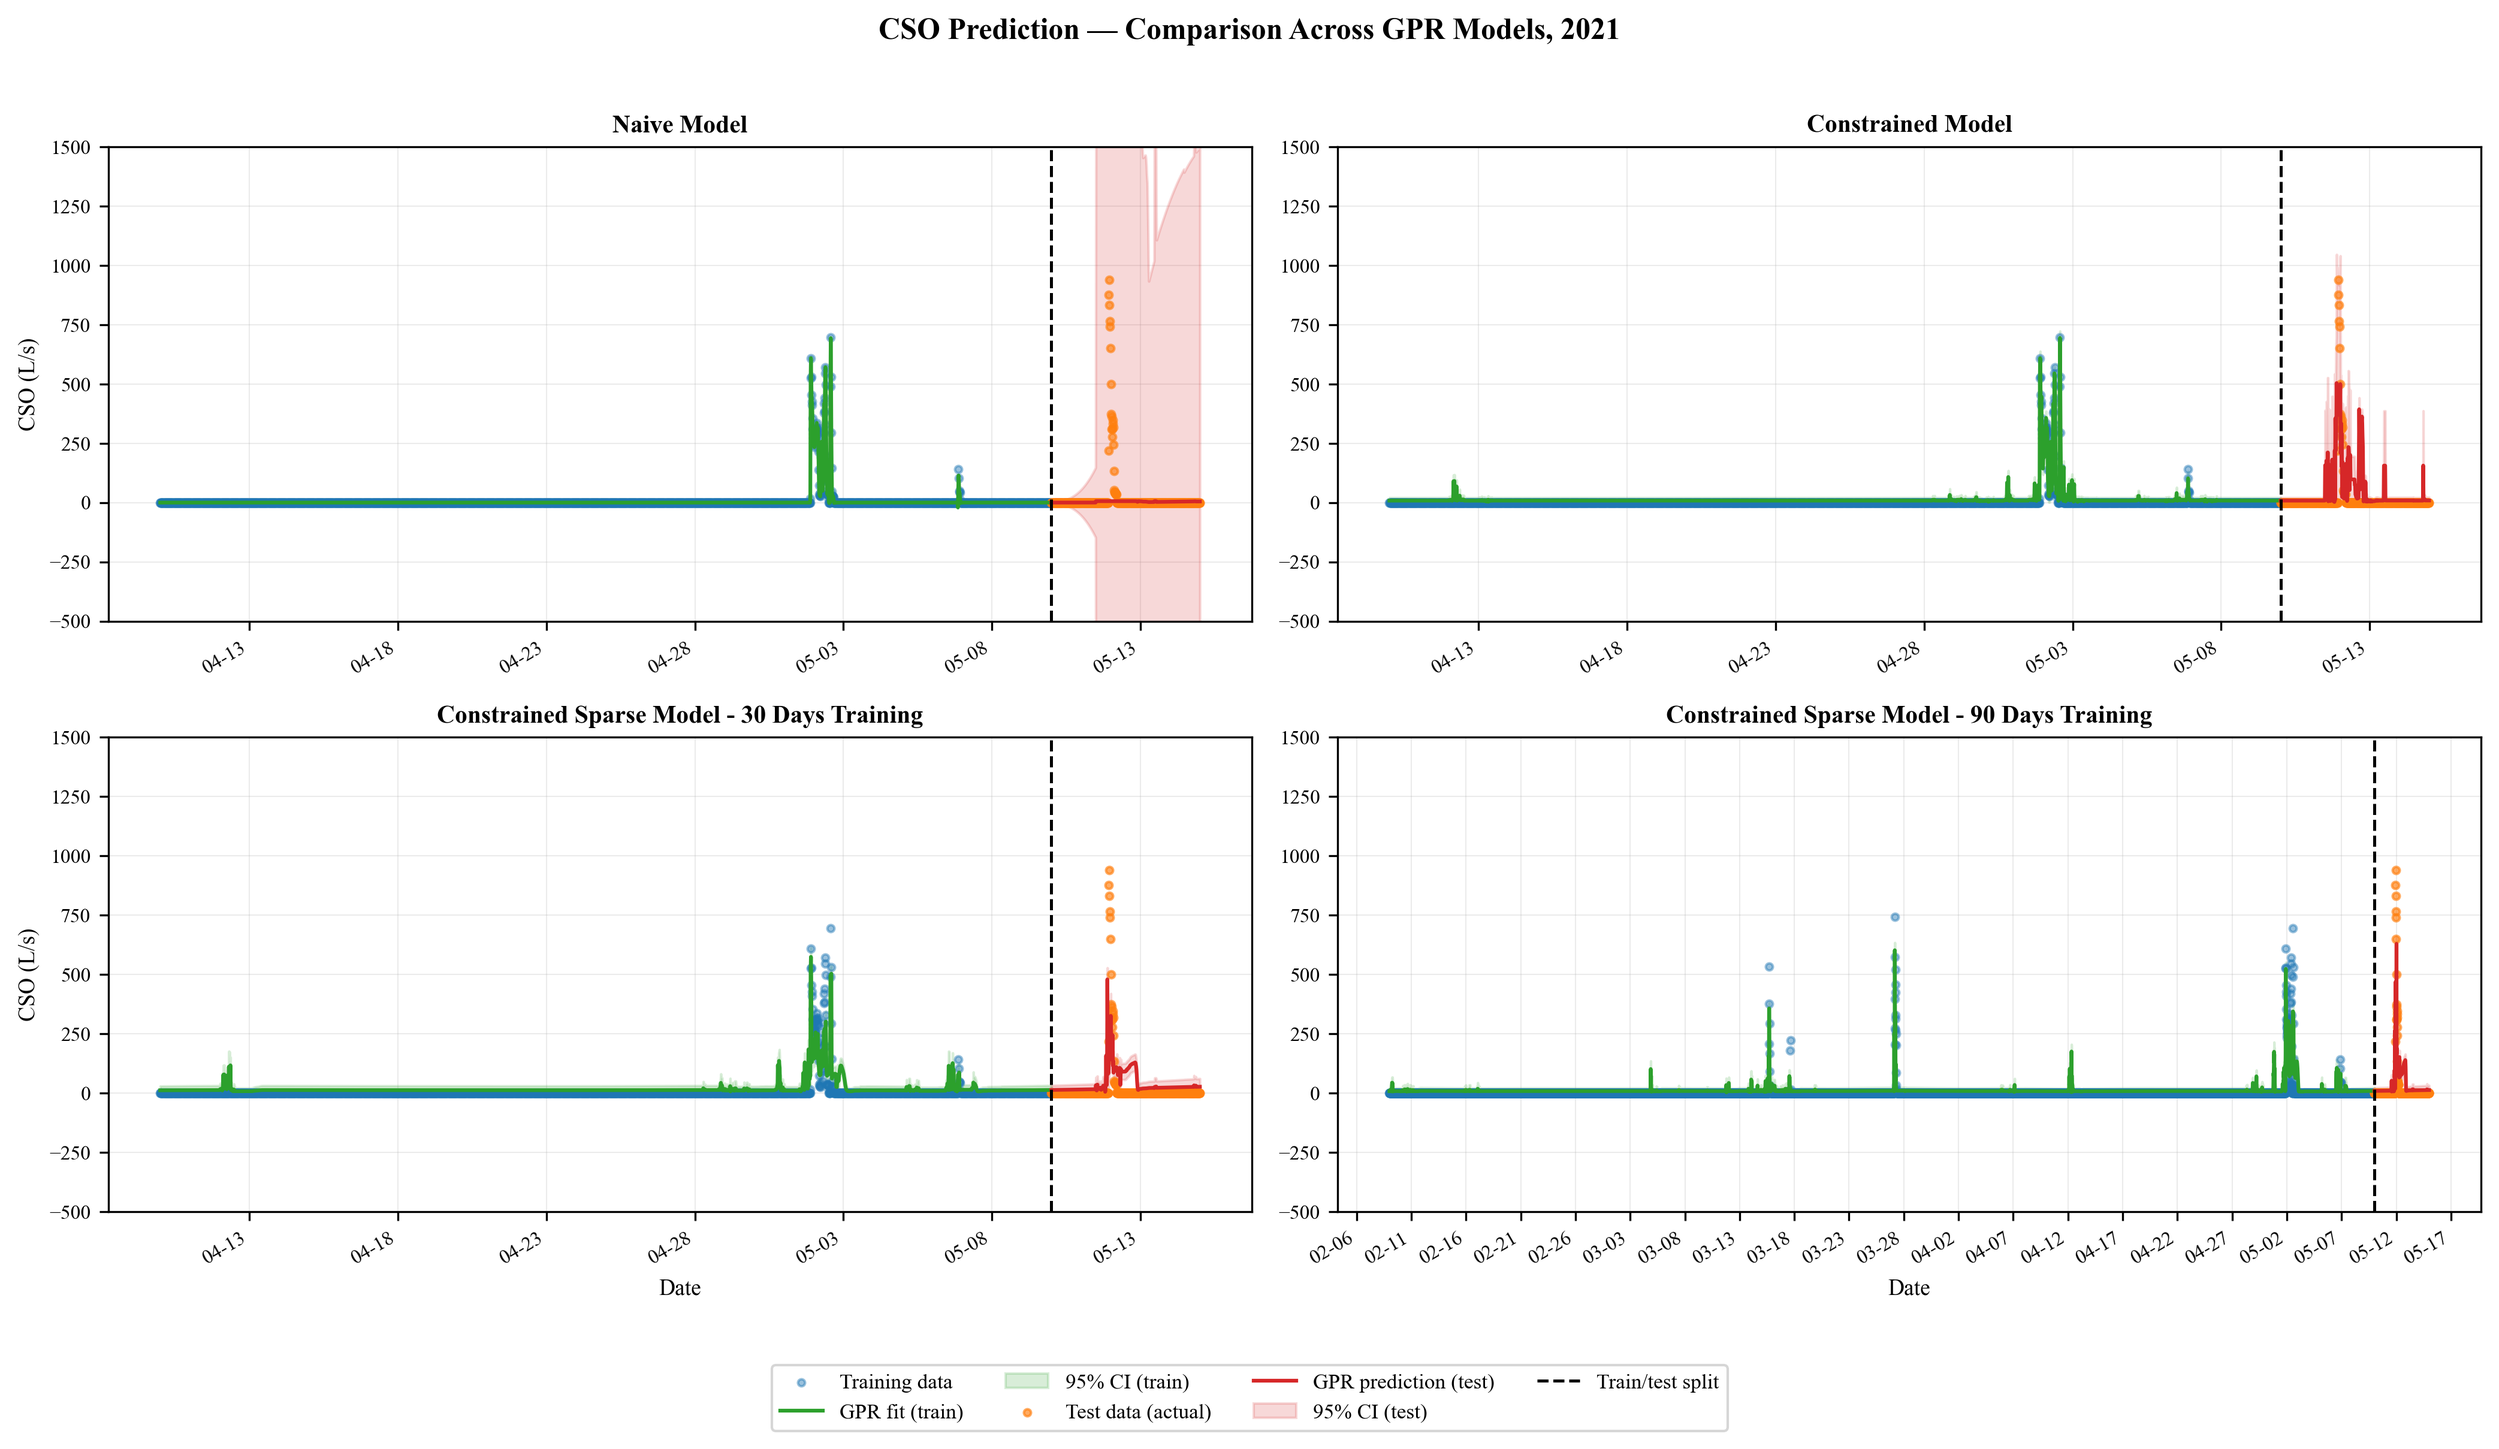
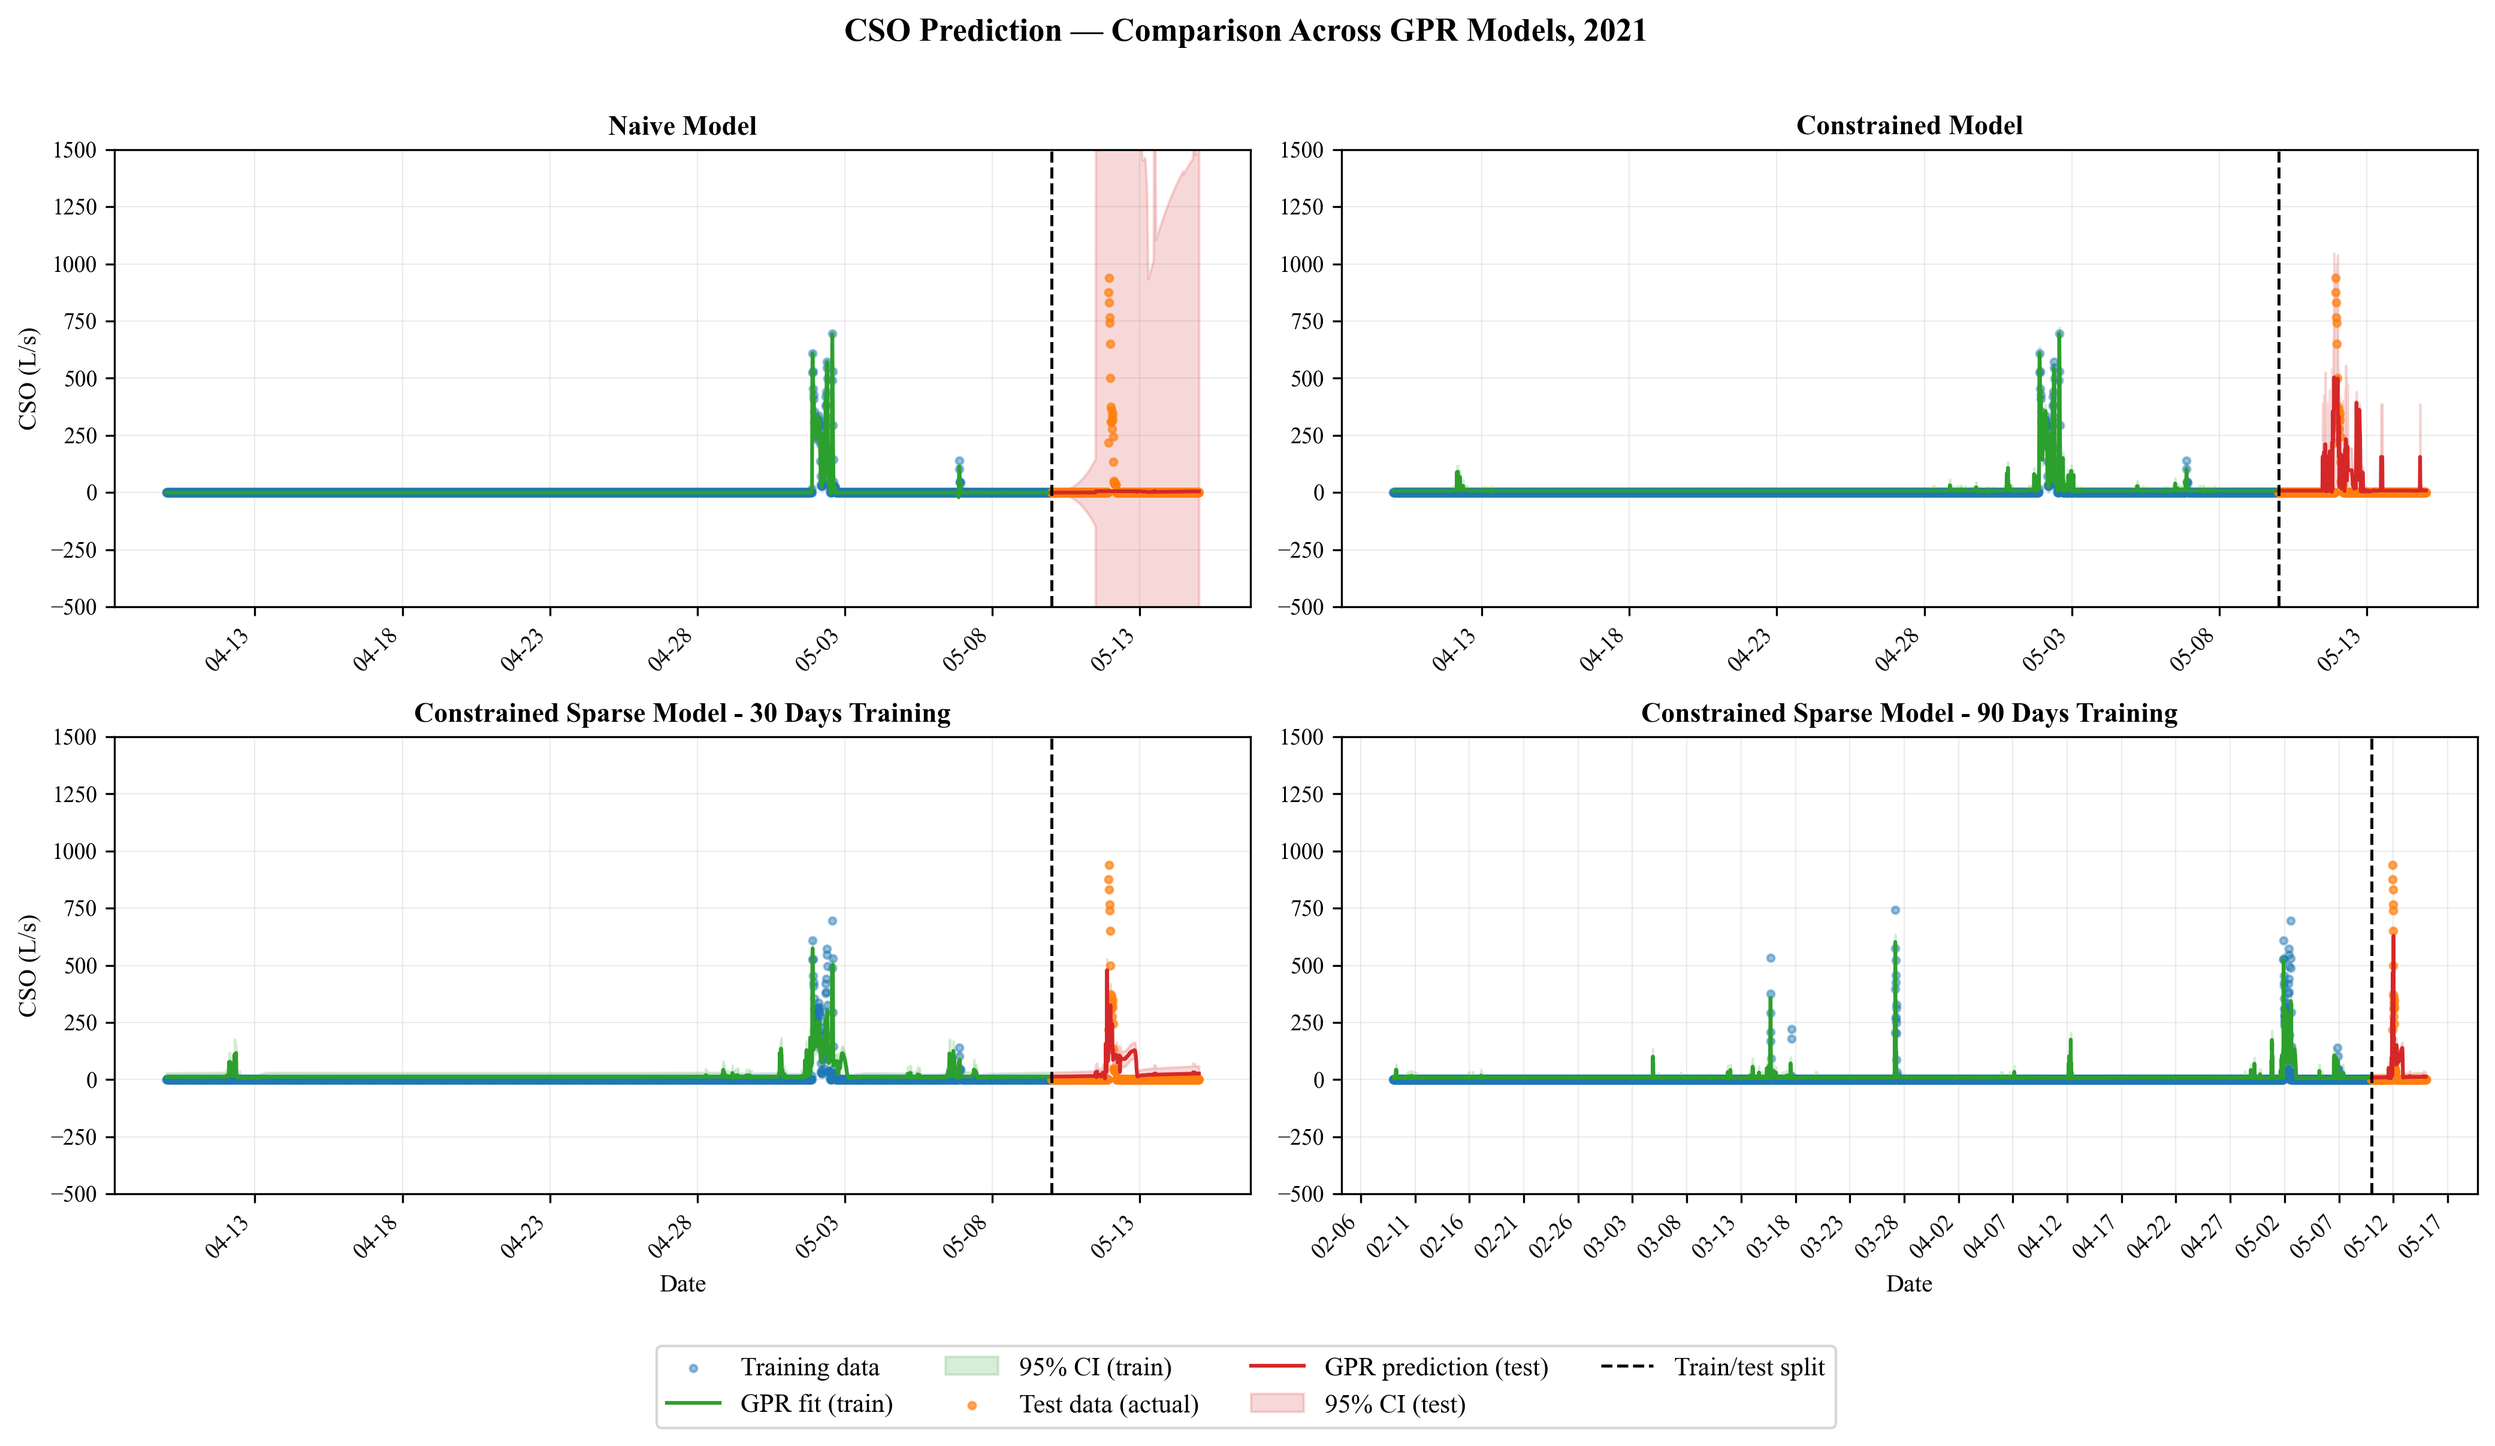
changes before finishing the paper

diff --git a/models_for_plotting/tank_GPR_mean_constraint.py b/models_for_plotting/tank_GPR_mean_constraint.py
@@ -320,6 +320,8 @@ def plot_results(timestamps_train, Y_train, Y_pred_train, std_train,
                     alpha=0.2, color='red', label='95% CI (Test)')
     ax.axvline(x=timestamps_train[-1], color='black', linestyle='--', 
                linewidth=1.5, label='Prediction Start', zorder=5)
+    ax.axhline(y=overflow_level, color='red', linestyle='--', 
+               linewidth=1.5, label=f'Spill Level ({overflow_level} mm)', zorder=1)
     if sample_date is not None:
         sample_ts = pd.to_datetime(sample_date)
         ax.axvline(x=sample_ts, color='purple', linestyle=':', 
@@ -329,6 +331,7 @@ def plot_results(timestamps_train, Y_train, Y_pred_train, std_train,
     ax.legend(fontsize=11, loc='best')
     ax.grid(True, alpha=0.3)
     ax.set_ylim(-1000, 4000)
+    ax.xaxis.set_major_formatter(mdates.DateFormatter('%d/%m'))
     
     # --- CSO probability subplot ---
     Z_scores = (overflow_level - Y_pred_test.ravel()) / std_test.ravel()
@@ -359,7 +362,7 @@ def plot_results(timestamps_train, Y_train, Y_pred_train, std_train,
     plt.xticks(rotation=45)
 
     plt.tight_layout()
-    plt.savefig(BASE / "results" / "Tank_level_outputs" / "2021_Tank_GPR_constraints_fig8.png", dpi=300)
+    plt.savefig(BASE / "results" / "Tank_level_outputs" / "2021_Tank_GPR_mean_fig8.png", dpi=300)
     plt.show()
 
 def main():
@@ -442,7 +445,7 @@ def main():
             'test_hours': test_hours
         }
     }
-    save_path = BASE / "results" / "Tank_level_outputs" / "2021_Tank_GPR_constraints.pkl"
+    save_path = BASE / "results" / "Tank_level_outputs" / "2021_Tank_GPR_mean.pkl"
     with open(save_path, 'wb') as f:
         pickle.dump(results_data, f)
     print(f"Data successfully saved to: {save_path}")

diff --git a/results/CSO_results.py b/results/CSO_results.py
@@ -87,16 +87,16 @@ def plot_single_panel(ax, data, title,
                    label=f"Max constraint ({max_flow} L/s)")
     """
     # --- Formatting ------------------------------------------------------------
-    ax.set_title(title, fontsize=10, fontweight="bold")
+    ax.set_title(title, fontsize=11, fontweight="bold")
     if show_ylabel:
-        ax.set_ylabel("CSO (L/s)", fontsize=9)
+        ax.set_ylabel("CSO (L/s)", fontsize=10)
     if show_xlabel:
-        ax.set_xlabel("Date", fontsize=9)
+        ax.set_xlabel("Date", fontsize=10)
 
     ax.xaxis.set_major_formatter(mdates.DateFormatter("%m-%d"))
     ax.xaxis.set_major_locator(mdates.DayLocator(interval=5))
-    plt.setp(ax.get_xticklabels(), rotation=30, ha="right", fontsize=8)
-    ax.tick_params(axis="y", labelsize=8)
+    plt.setp(ax.get_xticklabels(), rotation=45, ha="right", fontsize=9)
+    ax.tick_params(axis="y", labelsize=9)
     ax.grid(True, alpha=0.25, linewidth=0.5)
     ax.set_ylim(-500, 1500)
 
@@ -123,11 +123,11 @@ def main():
             all_labels.setdefault(l, h)   # first occurrence wins
     fig.legend(all_labels.values(), all_labels.keys(),
                loc="lower center", ncol=4,
-               fontsize=8.5, frameon=True,
+               fontsize=10.5, frameon=True,
                bbox_to_anchor=(0.5, 0.02))
 
     fig.suptitle("CSO Prediction — Comparison Across GPR Models, 2021",
-                 fontsize=12, fontweight="bold", y=1.01)
+                 fontsize=13, fontweight="bold", y=1.01)
 
     plt.tight_layout(rect=[0, 0.10, 1, 1])
     plt.savefig(OUTPUT_PATH, dpi=300, bbox_inches="tight")
